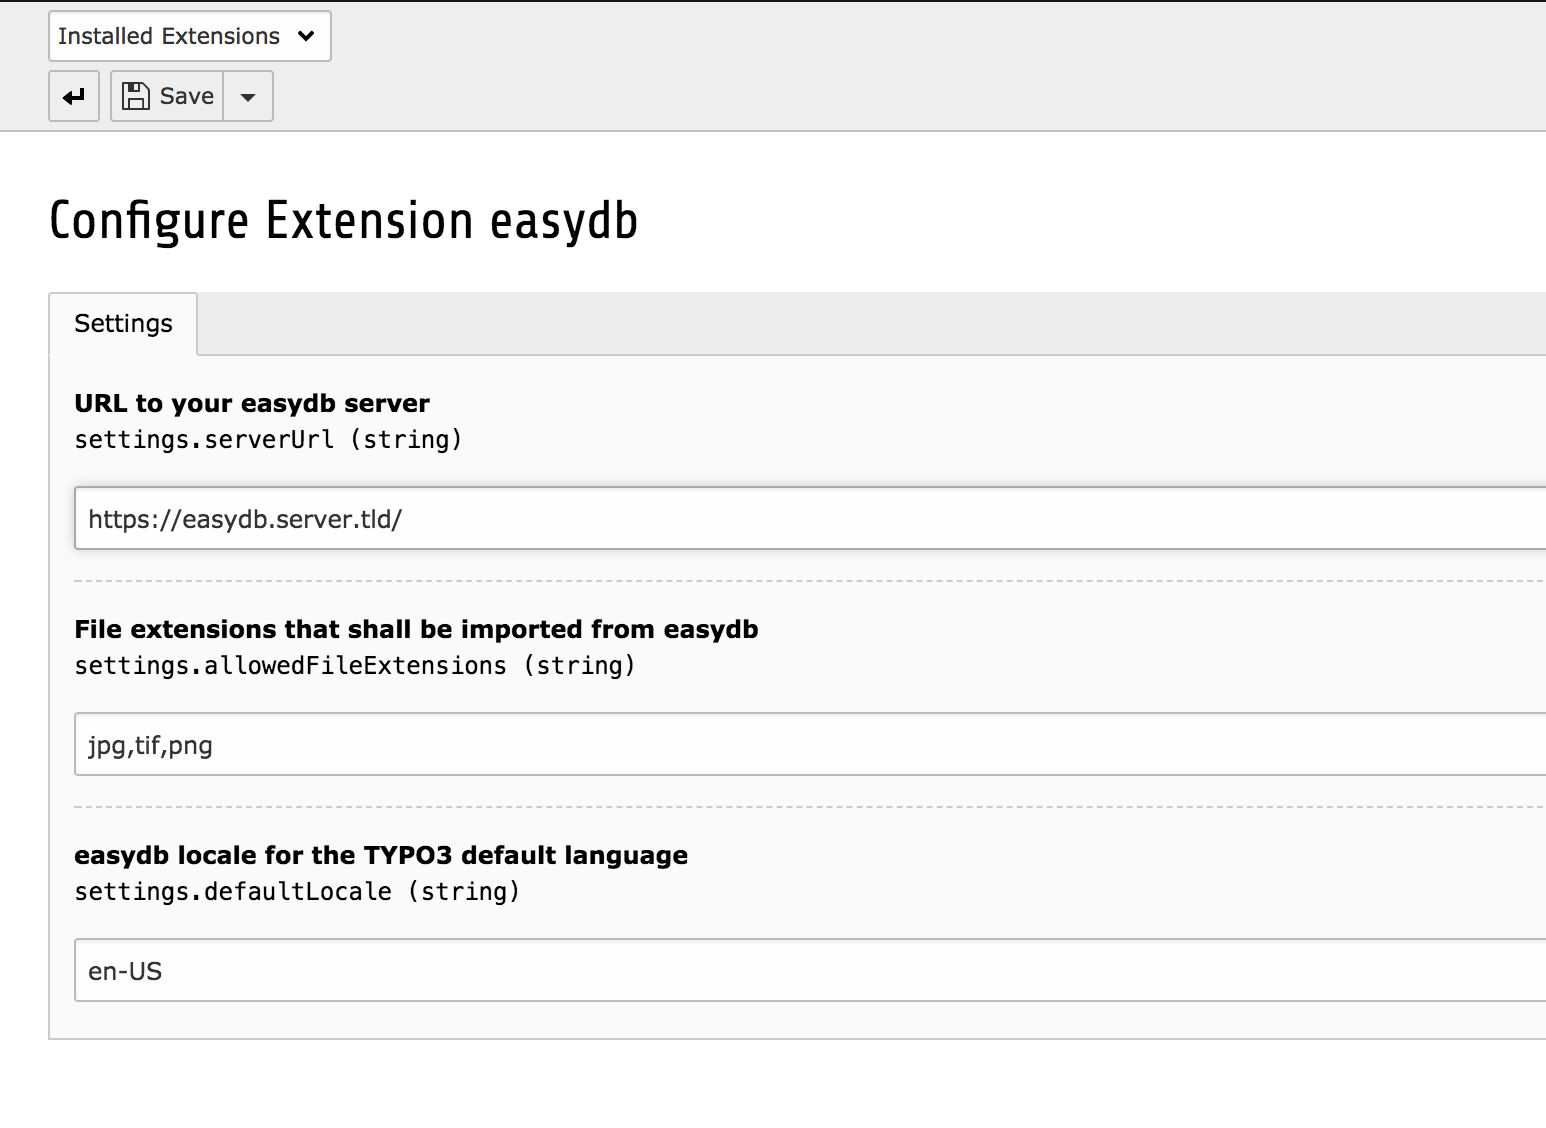
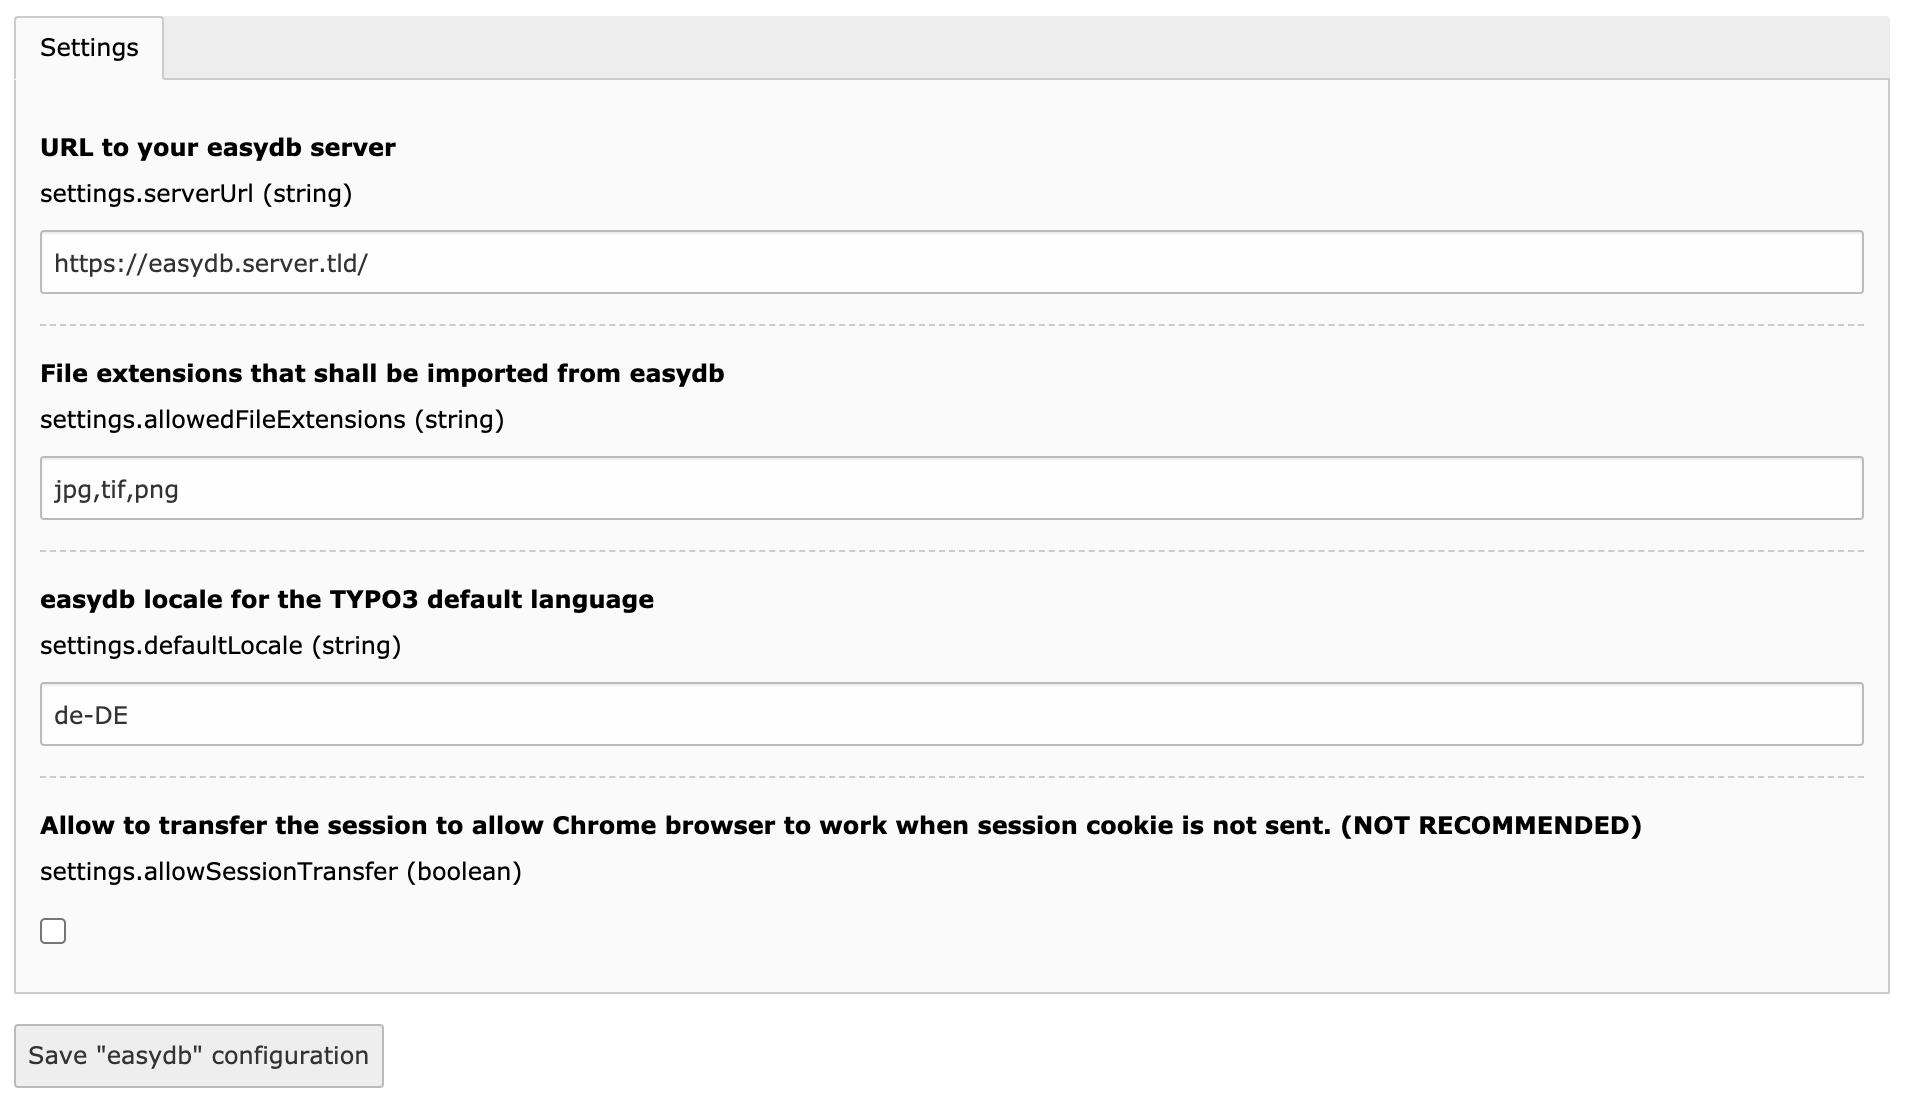
Add basic explanation on session transfer

diff --git a/Documentation/AdministratorManual/Index.rst b/Documentation/AdministratorManual/Index.rst
@@ -82,3 +82,11 @@ in the following screen shot.
 	:alt: easydb locale in TYPO3 language record
 
 	easydb locale in TYPO3 language record
+
+
+Allow Session Transfer
+^^^^^^^^^^^^^^^^^^^^^^
+
+Only set this checkbox, if it really is required and you understood the impact!
+Better options are: Setting `BE/cookieSameSite` to `none` in TYPO3 configuration,
+or to have the easydb hostname on the same top level domain as your TYPO3 backend.
